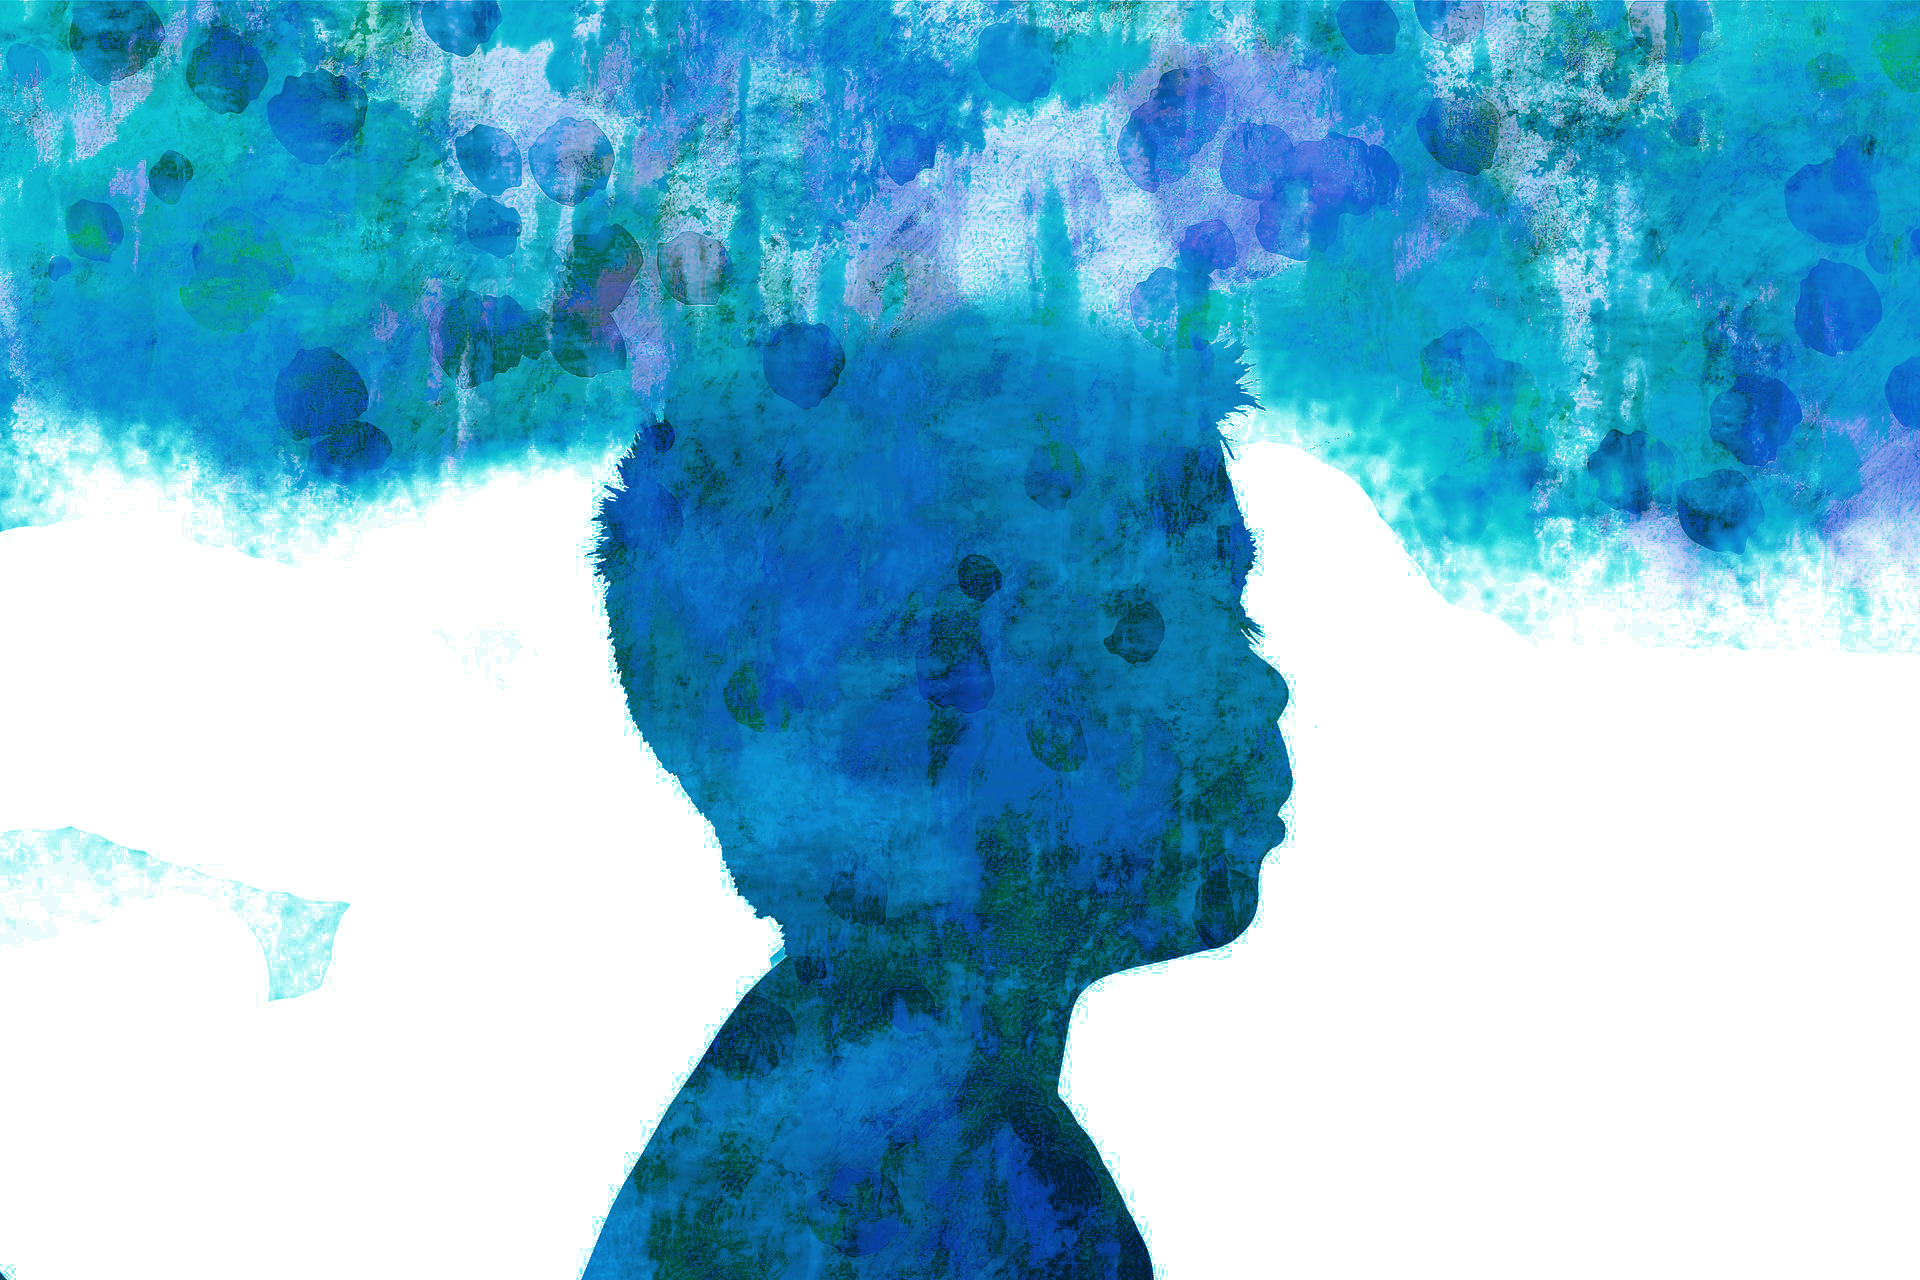
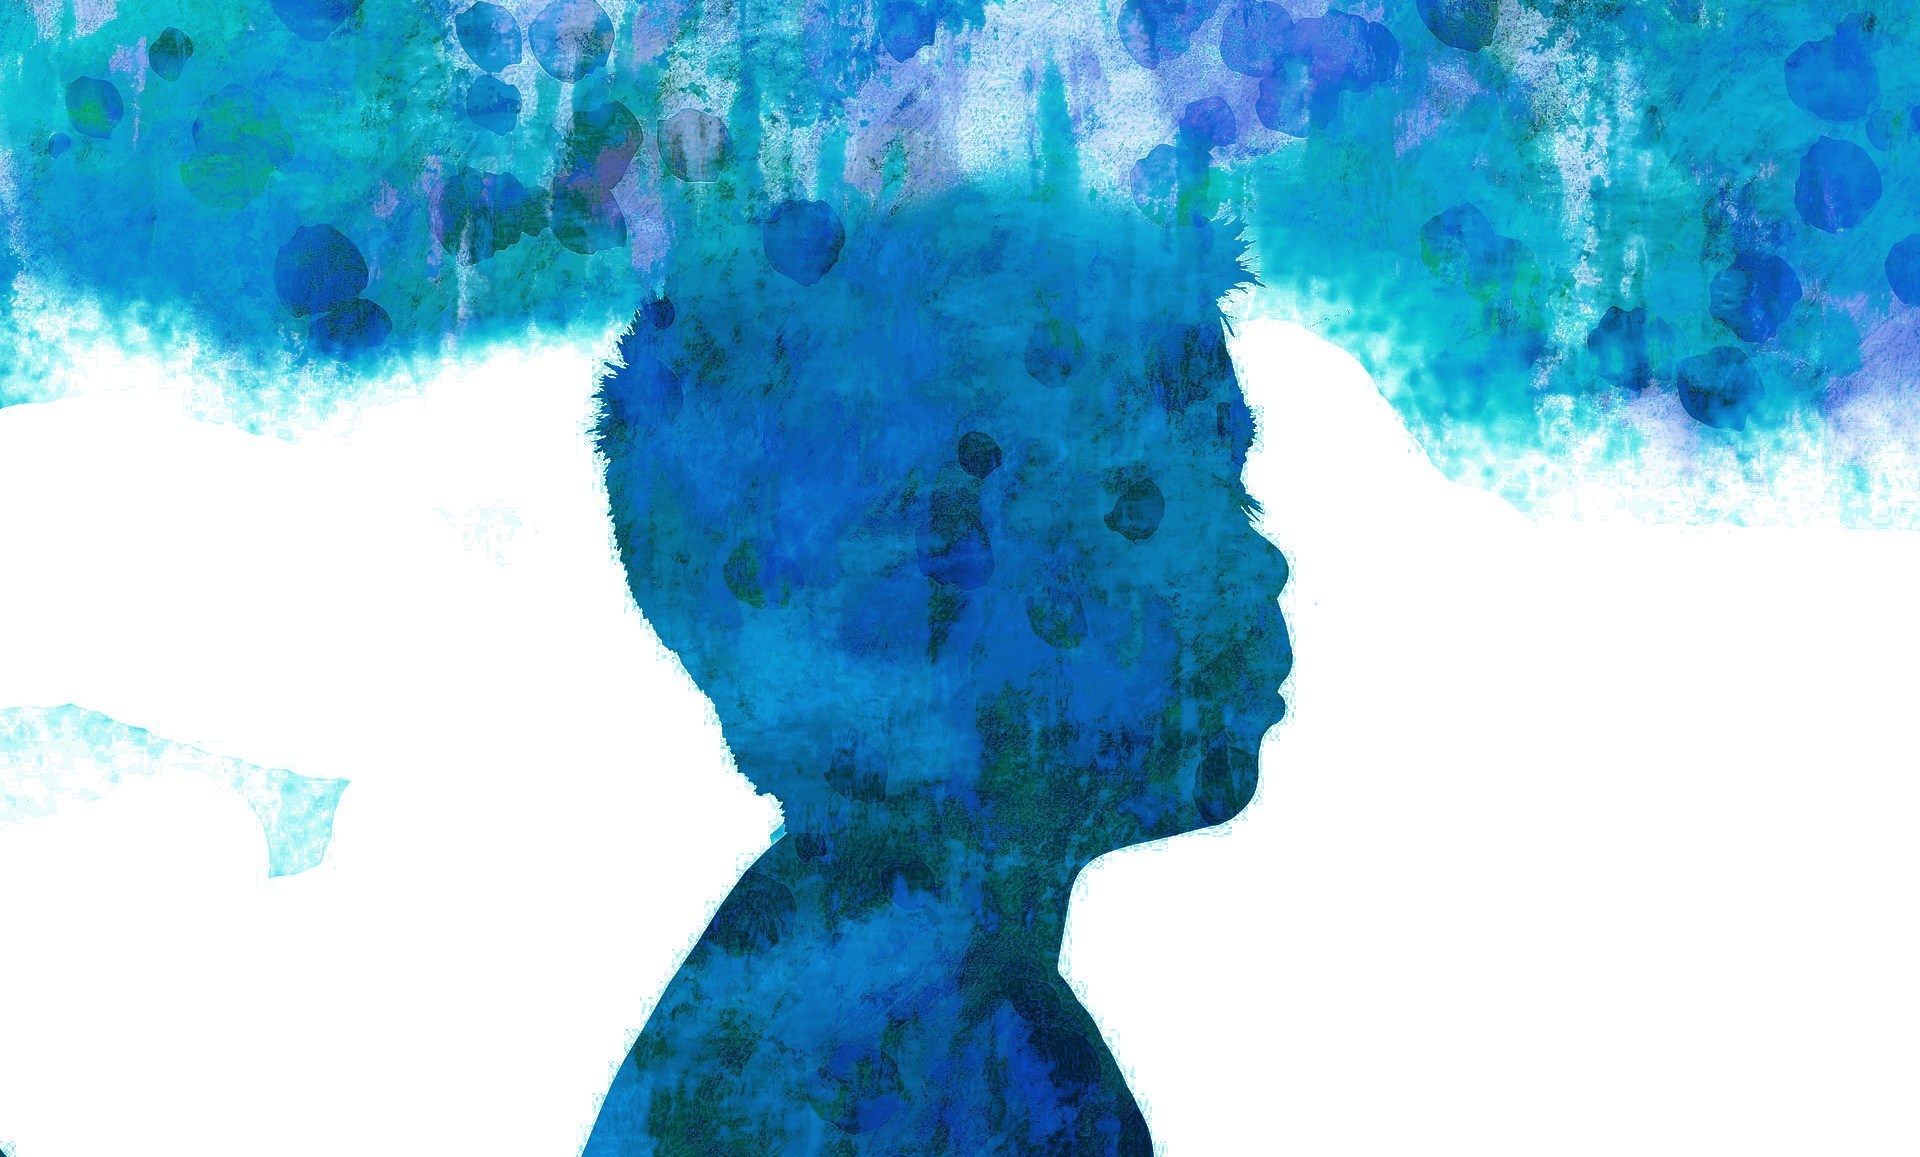
update heroSection text and replace home background image with better cropped version

diff --git a/src/components/HeroSection.css b/src/components/HeroSection.css
@@ -7,8 +7,6 @@ img {
 }
 
 .hero-container {
-    /* background-image: url('../images/twHead.jpg') center center/cover 
-    no-repeat;  */
     height: 100vh;
     width: 100%;
     display: flex;
@@ -16,18 +14,21 @@ img {
     justify-content: center;
     align-items: center;
     box-shadow: inset 0 0 0 1000px rgba(0, 0, 0, 0.2);
-    object-fit: fill;
+    object-fit: contain;
 }
 
 .hero-container > h1 {
     color: #fff;
     font-size: 70px;
+    text-align: center;
+    margin-top: -140px;
 }
 
 .hero-container > p {
     margin-top: 2px;
     color: #fff;
     font-size: 30px;
+    text-align: center;
     font-family: Georgia, 'Times New Roman', Times, serif;
 }
 
@@ -46,7 +47,7 @@ img {
 @media screen and (max-width: 960px) {
     .hero-container > h1 {
         font-size: 70px;
-        ;
+        margin-top: -140px;
     }
 }
 

diff --git a/src/components/HeroSection.js b/src/components/HeroSection.js
@@ -2,20 +2,16 @@ import React from 'react';
 import '../App.css';
 import { Button } from './Button'
 import './HeroSection.css';
-// import twHead from "../../public/assets/twHead.jpg";
+// import twHeadCropped from "../../public/assets/twHead.jpg";
 import twHead from '../images/twHead.jpg';
 
 function HeroSection() {
   return (
     <div className='hero-container'>
         <img src={twHead} alt="Logo" />
-        <h1>An</h1>
-        <h1>Exploratory</h1>
-        <h1>Youth Meditation</h1>
-        <h1>Program</h1>
+        <h1>An<br />Exploratory<br />Youth Meditation<br />Program</h1>
         <br />
-        <p>Join this amazing</p>
-        <p>movement of the mind!</p>
+        <p>Join this amazing<br />movement of the mind!</p>
         <div className="hero-btns">
             <Button
             className='btns'
